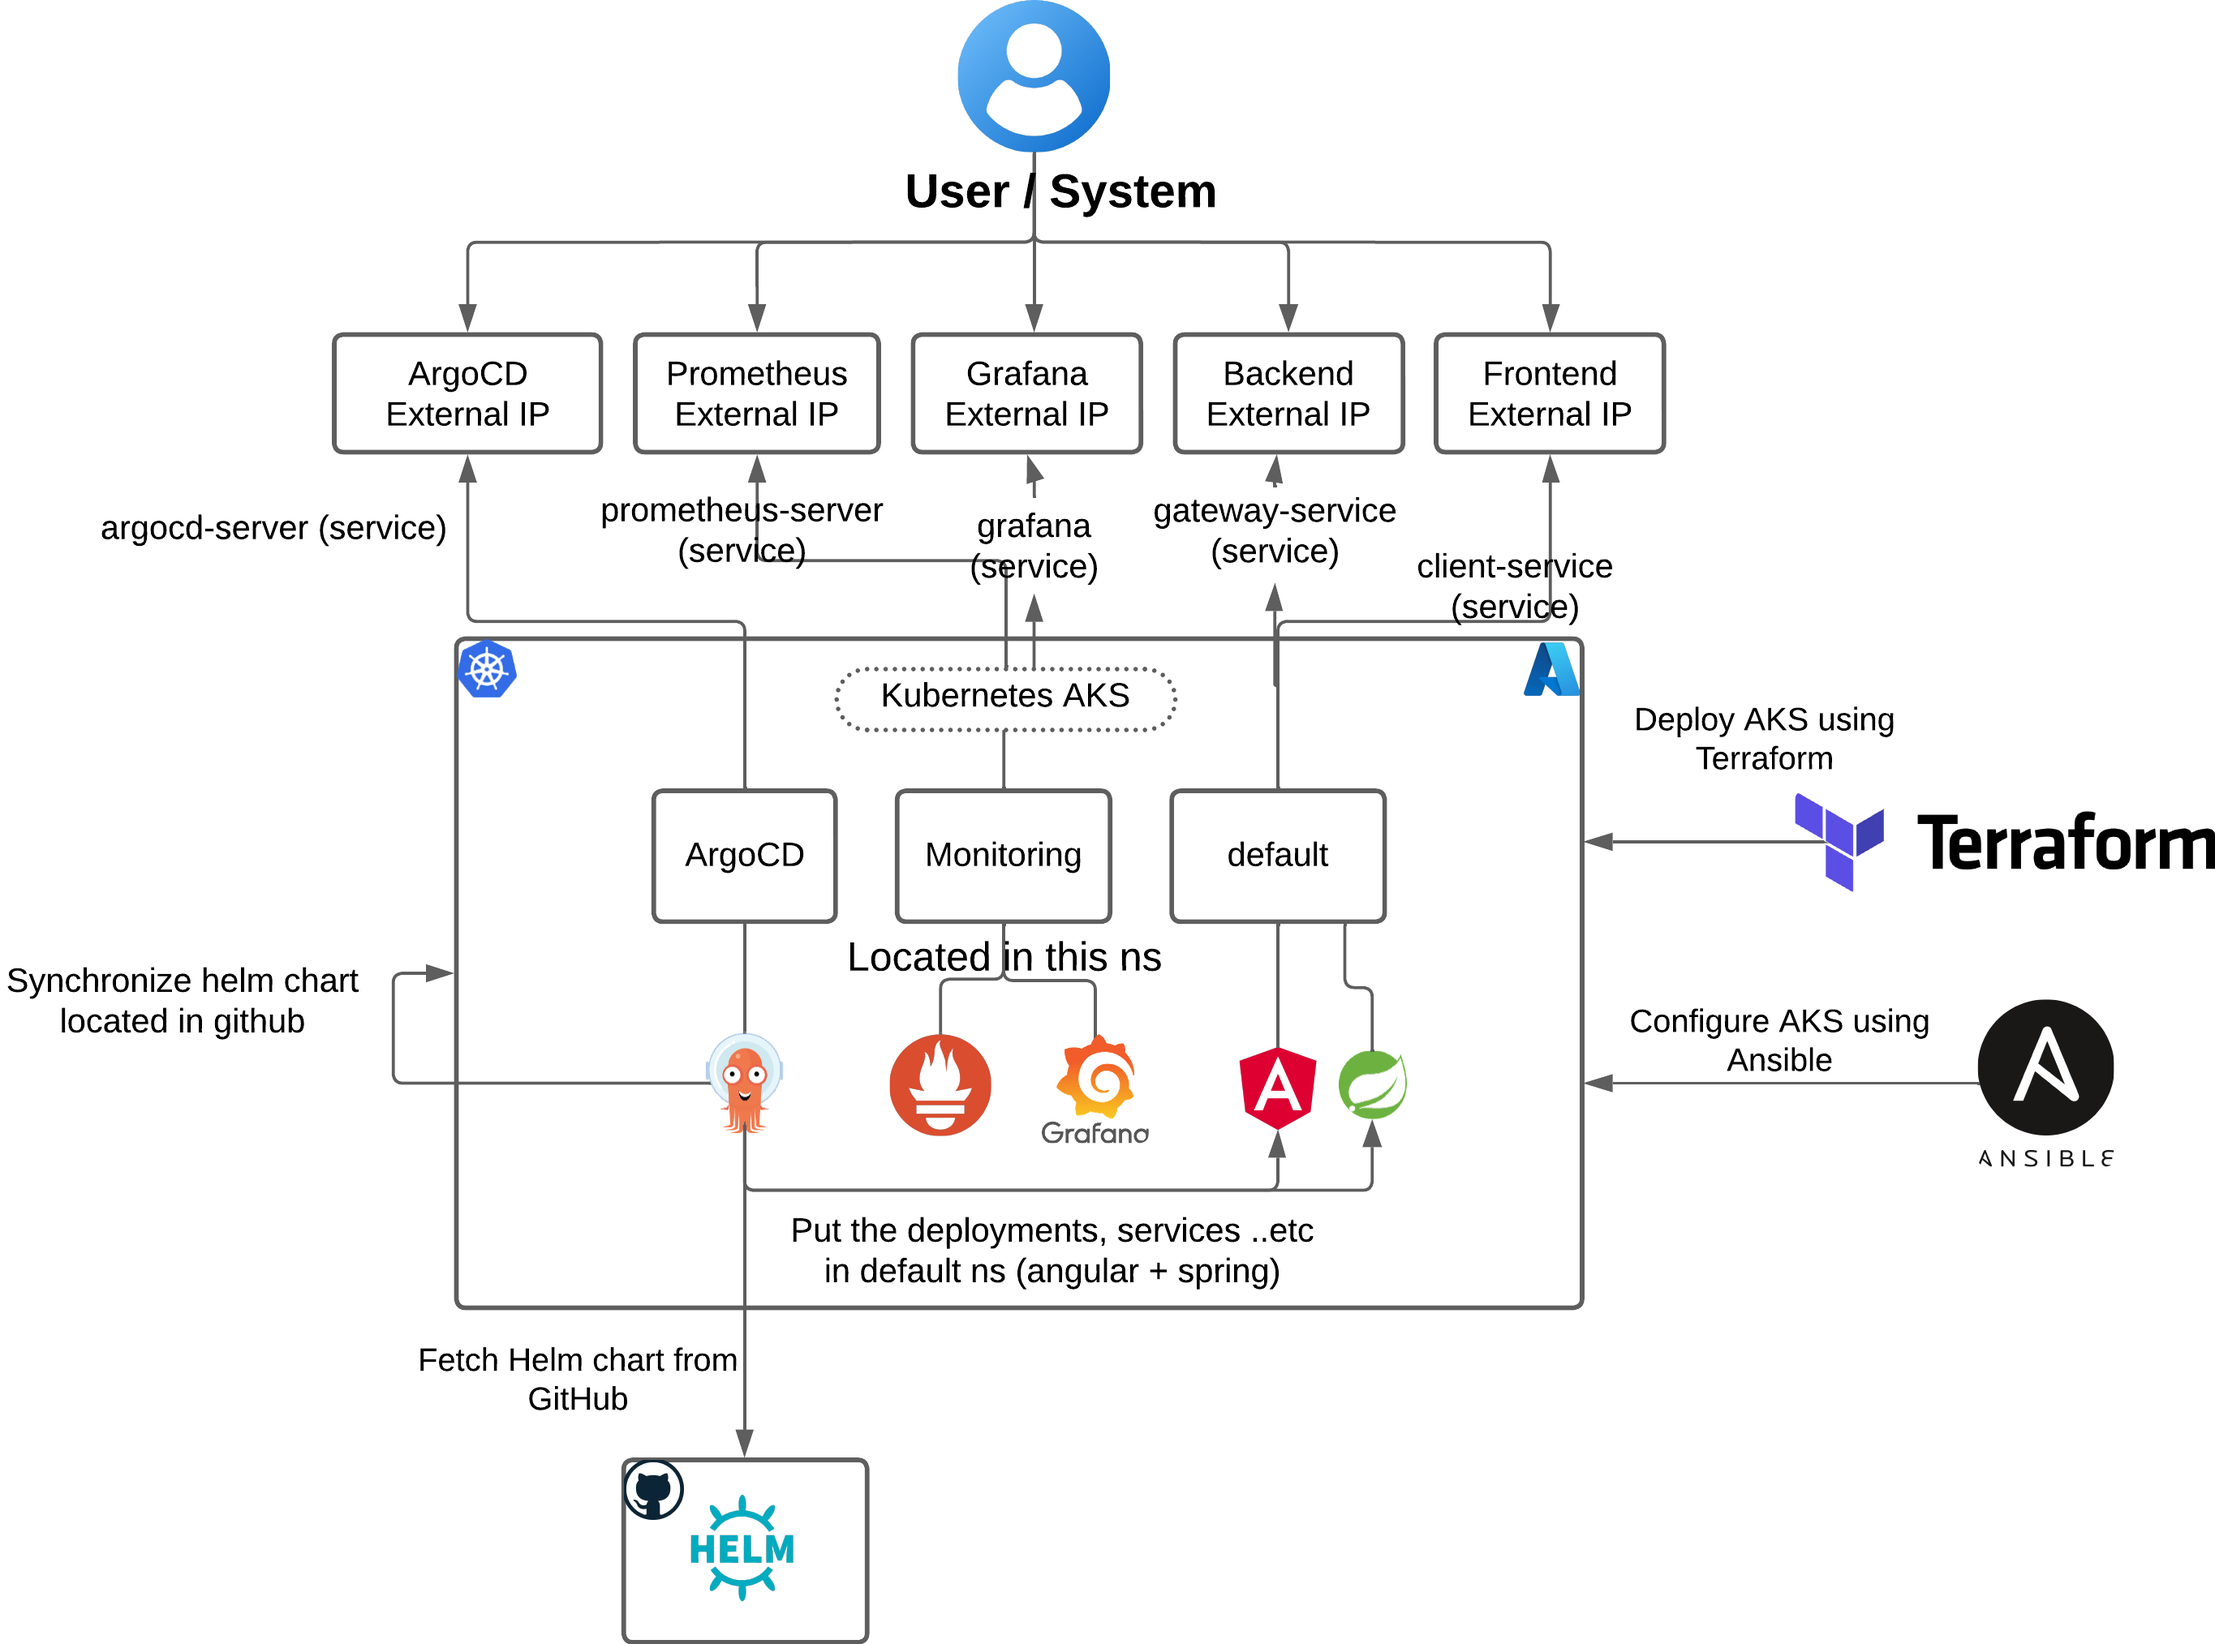
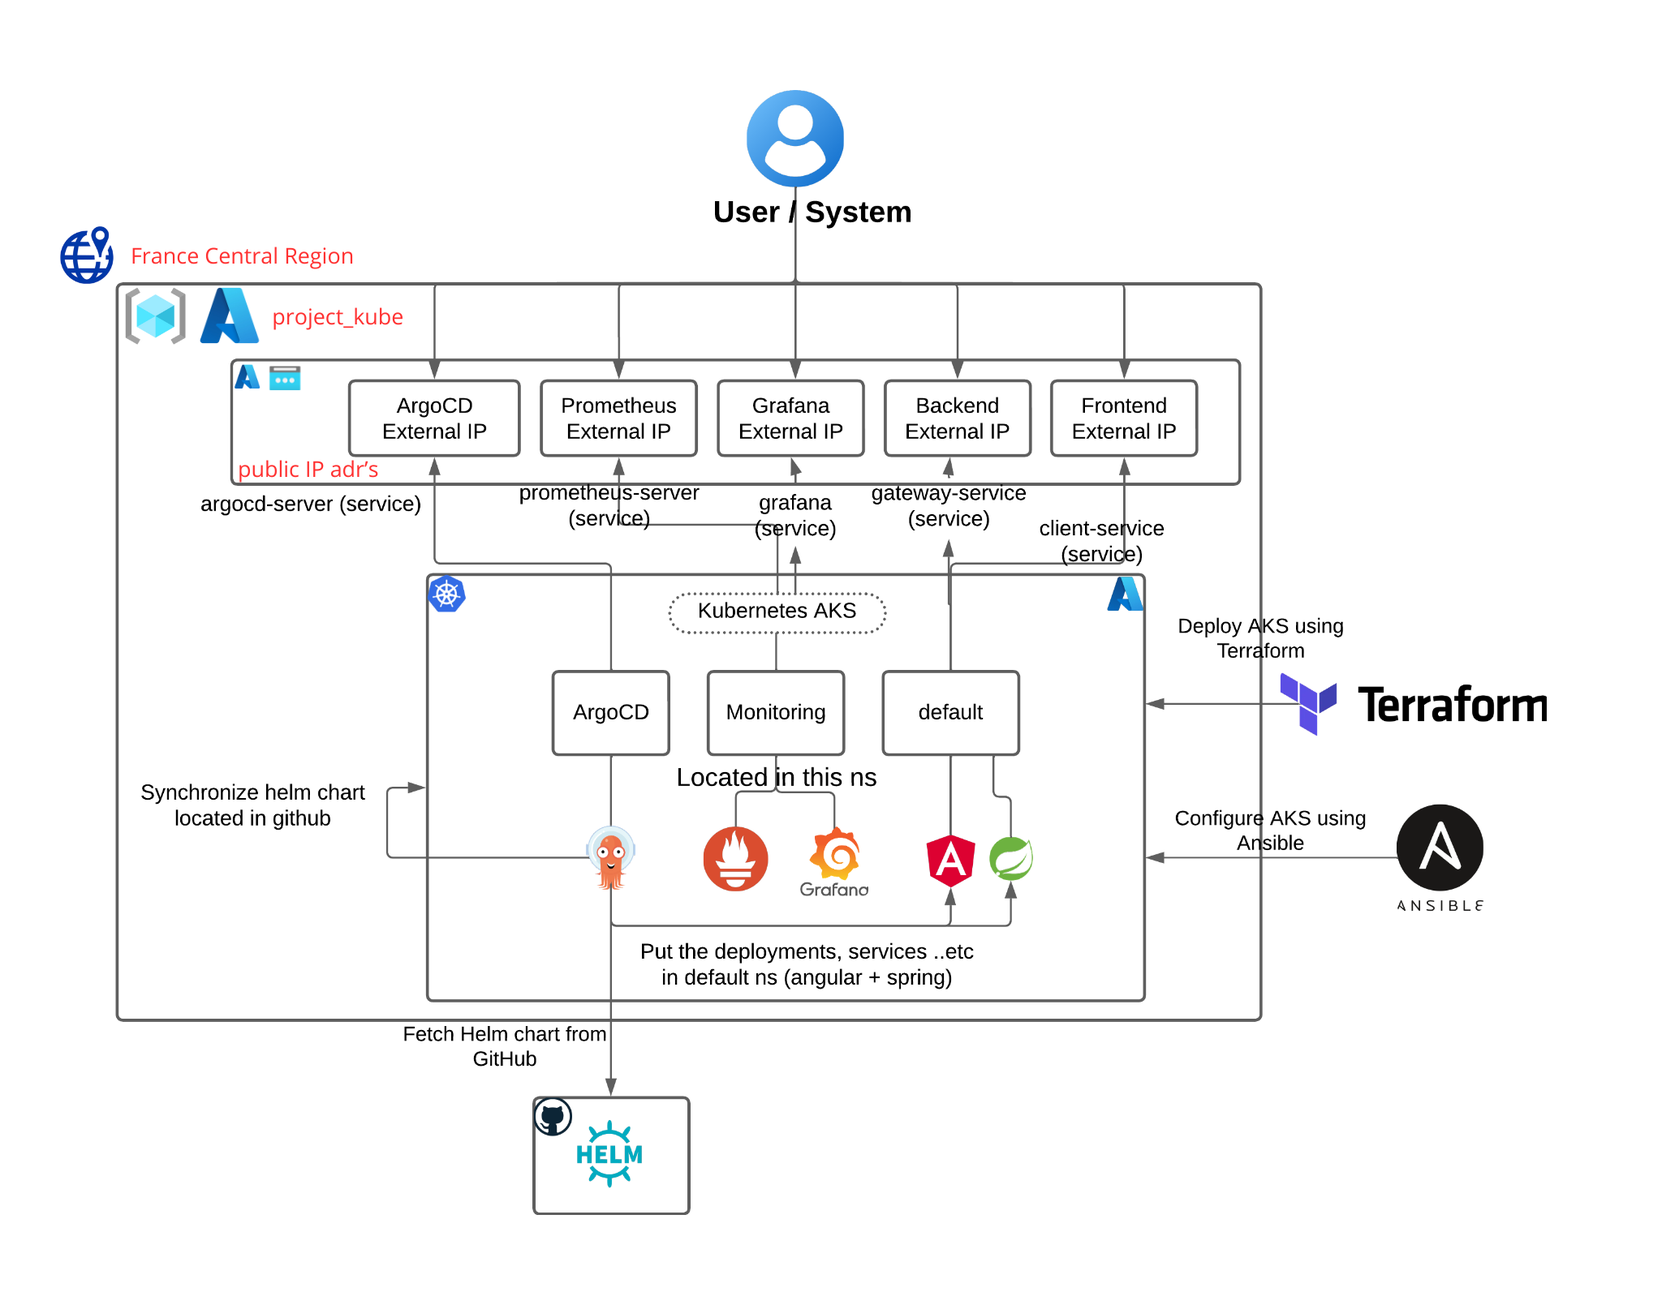
change infra architecture also readme

Changed region(s): [[0.0, 0.0, 1.0, 0.9633], [0.2812, 0.9944, 0.4062, 1.0]]

diff --git a/README.md b/README.md
@@ -100,7 +100,7 @@ This platform provides an intuitive way for users to manage their game library, 
 ![Architecture Diagram](screens/architecture_final.png)
 
 ### Infrastructure Diagram
-
+**PS**: There is 2 resource groups in real terms one for AKS and the other contains public ip's, machines, resources for machines ..etc but to simplify the architecture i just put one rg, the other rg named : agentsRG
 ![Infrastructure Diagram](screens/infra.png)
 
 ### Class Diagram
